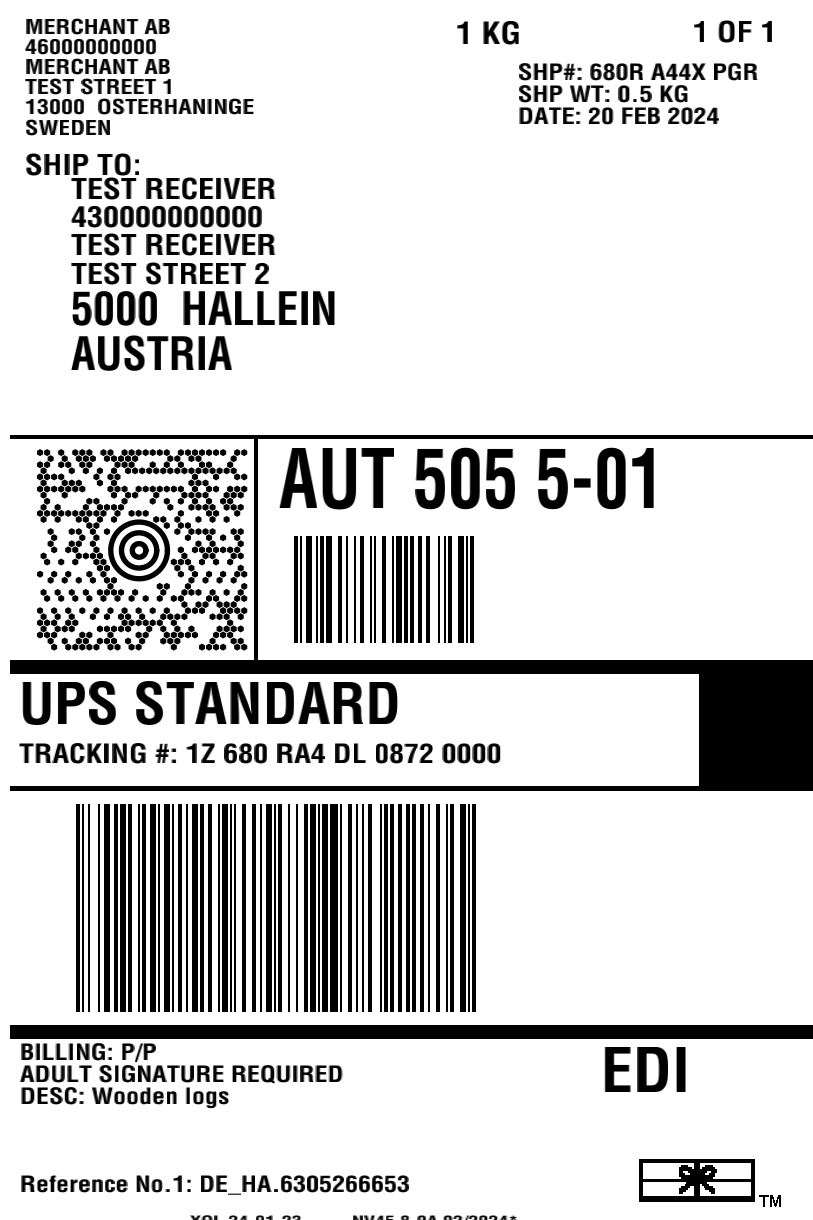
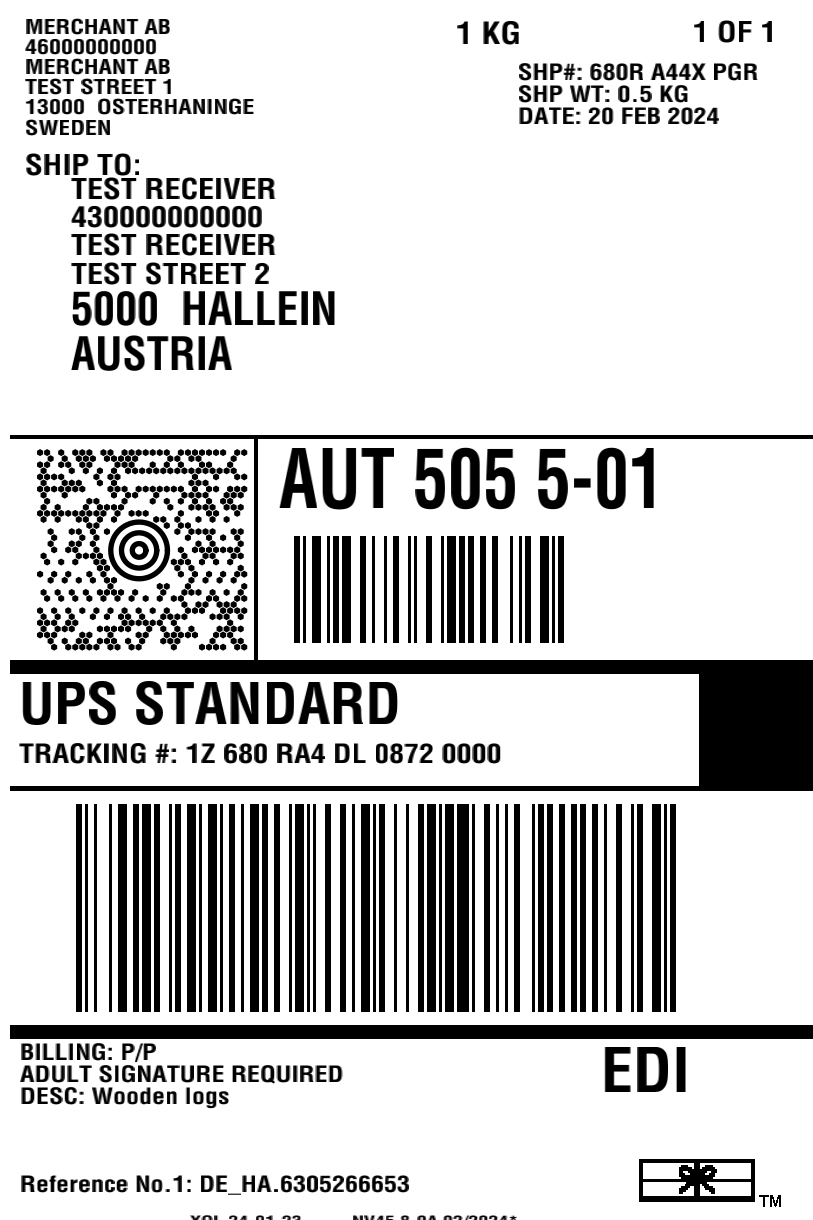
Implement ^BY command
[TA-460]

Changed region(s): [[0.0923, 0.6541, 0.8303, 0.841], [0.369, 0.4361, 0.7073, 0.5295]]

diff --git a/printers/virtual.go b/printers/virtual.go
@@ -3,20 +3,21 @@ package printers
 import "github.com/ingridhq/zebrash/elements"
 
 type VirtualPrinter struct {
-	StoredGraphics          map[string]elements.StoredGraphics
-	LabelHomePosition       elements.LabelPosition
-	NextElementPosition     elements.LabelPosition
-	DefaultFont             elements.FontInfo
-	DefaultOrientation      elements.FieldOrientation
-	DefaultAlignment        elements.TextAlignment
-	NextElementFieldBlock   *elements.FieldBlock
-	NextElementFieldData    interface{}
-	NextFont                *elements.FontInfo
-	NextDownloadFormatName  string
-	NextHexEscapeChar       byte
-	NextElementFieldReverse bool
-	LabelReverse            bool
-	// TODO: Add barcode field default handling
+	StoredGraphics            map[string]elements.StoredGraphics
+	LabelHomePosition         elements.LabelPosition
+	NextElementPosition       elements.LabelPosition
+	DefaultFont               elements.FontInfo
+	DefaultOrientation        elements.FieldOrientation
+	DefaultAlignment          elements.TextAlignment
+	NextElementFieldBlock     *elements.FieldBlock
+	NextElementFieldData      interface{}
+	NextFont                  *elements.FontInfo
+	NextDownloadFormatName    string
+	NextHexEscapeChar         byte
+	NextElementFieldReverse   bool
+	LabelReverse              bool
+	DefaultBarcodeModuleWidth int
+	DefaultBarcodeHeight      int
 }
 
 func NewVirtualPrinter() *VirtualPrinter {
@@ -27,6 +28,8 @@ func NewVirtualPrinter() *VirtualPrinter {
 			Width:  0,
 			Height: 9,
 		},
+		DefaultBarcodeModuleWidth: 2,
+		DefaultBarcodeHeight:      10,
 	}
 }
 

diff --git a/parser_test.go b/parser_test.go
@@ -61,6 +61,11 @@ func TestDrawLabelAsPng(t *testing.T) {
 			dstPath: "barcode128_mode_n.png",
 		},
 		{
+			name:    "Barcode128 default width set",
+			srcPath: "barcode128_default_width.zpl",
+			dstPath: "barcode128_default_width.png",
+		},
+		{
 			name:    "Barcode128 180 degrees rotated",
 			srcPath: "barcode128_rotated.zpl",
 			dstPath: "barcode128_rotated.png",
@@ -101,6 +106,52 @@ func TestDrawLabelAsPng(t *testing.T) {
 
 			if diff := cmp.Diff(buff.Bytes(), expectedPng); diff != "" {
 				t.Errorf("mismatched png output (-got,+want):\n %s", diff)
+			}
+		})
+	}
+}
+
+func TestDrawLabelAsPng_Barcode128(t *testing.T) {
+	filenames := []string{
+		"barcode128_line_above",
+		"barcode128_line",
+		"barcode128_mode_a",
+		"barcode128_mode_d",
+		"barcode128_mode_n",
+		"barcode128_mode_u",
+		"barcode128_rotated",
+	}
+
+	for _, filename := range filenames {
+		t.Run(filename, func(t *testing.T) {
+			file, err := os.ReadFile("./testdata/" + filename + ".zpl")
+			if err != nil {
+				t.Fatal(err)
+			}
+
+			expectedPng, err := os.ReadFile("./testdata/" + filename + ".png")
+			if err != nil {
+				t.Fatal(err)
+			}
+
+			parser := NewParser()
+
+			res, err := parser.Parse(file)
+			if err != nil {
+				t.Fatal(err)
+			}
+
+			var buff bytes.Buffer
+
+			drawer := NewDrawer()
+
+			err = drawer.DrawLabelAsPng(res[0], &buff, drawers.DrawerOptions{})
+			if err != nil {
+				t.Fatal(err)
+			}
+
+			if diff := cmp.Diff(buff.Bytes(), expectedPng); diff != "" {
+				t.Fatalf("unexpected output label, diff(+got,-want): %s", diff)
 			}
 		})
 	}

diff --git a/parsers/barcode_field_defaults.go b/parsers/barcode_field_defaults.go
@@ -1,0 +1,33 @@
+package parsers
+
+import (
+	"strconv"
+
+	"github.com/ingridhq/zebrash/printers"
+)
+
+func NewBarcodeFieldDefaults() *CommandParser {
+	const code = "^BY"
+
+	return &CommandParser{
+		CommandCode: code,
+		Parse: func(command string, printer *printers.VirtualPrinter) (interface{}, error) {
+			parts := splitCommand(command, code, 0)
+			if len(parts) > 0 {
+				if v, err := strconv.Atoi(parts[0]); err == nil {
+					printer.DefaultBarcodeModuleWidth = v
+				}
+			}
+			// TODO: We should be parsing WideBarToNarrowBarWidthRatio from parts[1], but:
+			// 1. The libs we use for encoding barcodes does not support this
+			// 2. We don't need it at the moment
+			if len(parts) > 2 {
+				if v, err := strconv.Atoi(parts[2]); err == nil {
+					printer.DefaultBarcodeHeight = v
+				}
+			}
+
+			return nil, nil
+		},
+	}
+}

diff --git a/drawers/barcode_128.go b/drawers/barcode_128.go
@@ -14,7 +14,6 @@ import (
 	"github.com/ingridhq/zebrash/elements"
 )
 
-const barcodeLibraryWidthScaleFactor = 2
 const barcodeLineFontSizeScaleFactor = 20
 
 var startCodeRegex = regexp.MustCompile(`^(>[9:;])`)
@@ -45,8 +44,7 @@ func NewBarcode128Drawer() *ElementDrawer {
 			if err != nil {
 				return fmt.Errorf("failed to encode barcode: %s", err.Error())
 			}
-			// TODO: Replace with a Width from BY command
-			scaledBarcode, err := barcodeLib.Scale(encodedBarcode, encodedBarcode.Bounds().Size().X*barcodeLibraryWidthScaleFactor, barcode.Height*encodedBarcode.Bounds().Max.Y)
+			scaledBarcode, err := barcodeLib.Scale(encodedBarcode, encodedBarcode.Bounds().Size().X*barcode.Width, encodedBarcode.Bounds().Max.Y*barcode.Height)
 			if err != nil {
 				return fmt.Errorf("failed to scale barcode: %s", err.Error())
 			}

diff --git a/parsers/barcode_128.go b/parsers/barcode_128.go
@@ -15,6 +15,7 @@ func NewBarcode128Parser() *CommandParser {
 		Parse: func(command string, printer *printers.VirtualPrinter) (interface{}, error) {
 			barcode := &elements.Barcode128{
 				Orientation: printer.DefaultOrientation,
+				Height:      printer.DefaultBarcodeHeight,
 				Line:        true,
 			}
 
@@ -25,7 +26,6 @@ func NewBarcode128Parser() *CommandParser {
 
 			if len(parts) > 1 {
 				if v, err := strconv.Atoi(parts[1]); err == nil {
-					// TODO: Add BY command and handle defaults
 					barcode.Height = v
 				}
 			}

diff --git a/parsers/field_value.go b/parsers/field_value.go
@@ -18,6 +18,7 @@ func NewFieldValueParser() *CommandParser {
 				case *elements.Barcode128:
 					return &elements.Barcode128WithData{
 						Barcode128: *fd,
+						Width:      printer.DefaultBarcodeModuleWidth,
 						Position:   printer.NextElementPosition,
 						Data:       text,
 					}, nil

diff --git a/parsers/field_data.go b/parsers/field_data.go
@@ -42,6 +42,7 @@ func NewFieldDataParser() *CommandParser {
 				case *elements.Barcode128:
 					return &elements.Barcode128WithData{
 						Barcode128: *fd,
+						Width:      printer.DefaultBarcodeModuleWidth,
 						Position:   printer.NextElementPosition,
 						Data:       text,
 					}, nil

diff --git a/parser.go b/parser.go
@@ -36,6 +36,7 @@ func NewParser() *Parser {
 			parsers.NewBarcodePdf417Parser(),
 			parsers.NewDownloadGraphicsParser(),
 			parsers.NewRecallGraphicsParser(),
+			parsers.NewBarcodeFieldDefaults(),
 		},
 	}
 }

diff --git a/elements/barcode_128.go b/elements/barcode_128.go
@@ -43,6 +43,7 @@ type Barcode128 struct {
 
 type Barcode128WithData struct {
 	Barcode128
+	Width    int
 	Position LabelPosition
 	Data     string
 }
